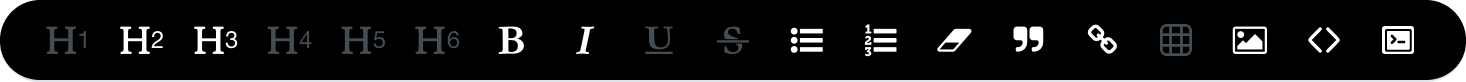
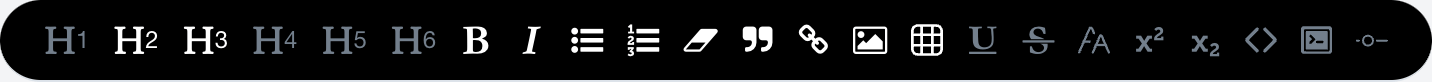
Update Bard buttons and screenshot (#799)

diff --git a/content/collections/fieldtypes/bard.md b/content/collections/fieldtypes/bard.md
@@ -19,7 +19,7 @@ options:
     type: array
     description: |
       An array of buttons you want available in the toolbar.
-      You can choose from `h1`, `h2`, `h3`, `h4`, `h5`, `h6`, `bold`, `italic`, `underline`, `strikethrough`, `unorderedlist`, `orderedlist`, `removeformat`, `quote`, `anchor`, `image`, `table`, `code` (inline), and `codeblock`.
+      You can choose from `h1`, `h2`, `h3`, `h4`, `h5`, `h6`, `bold`, `italic`, `small`, `underline`, `strikethrough`, `unorderedlist`, `orderedlist`, `removeformat`, `quote`, `anchor`, `image`, `table`, `code` (inline), `codeblock`, and `horizontalrule`.
 
       These are the defaults:
       ![Bard Buttons](/img/fieldtypes/screenshots/bard-buttons.png) {.mt-4}
